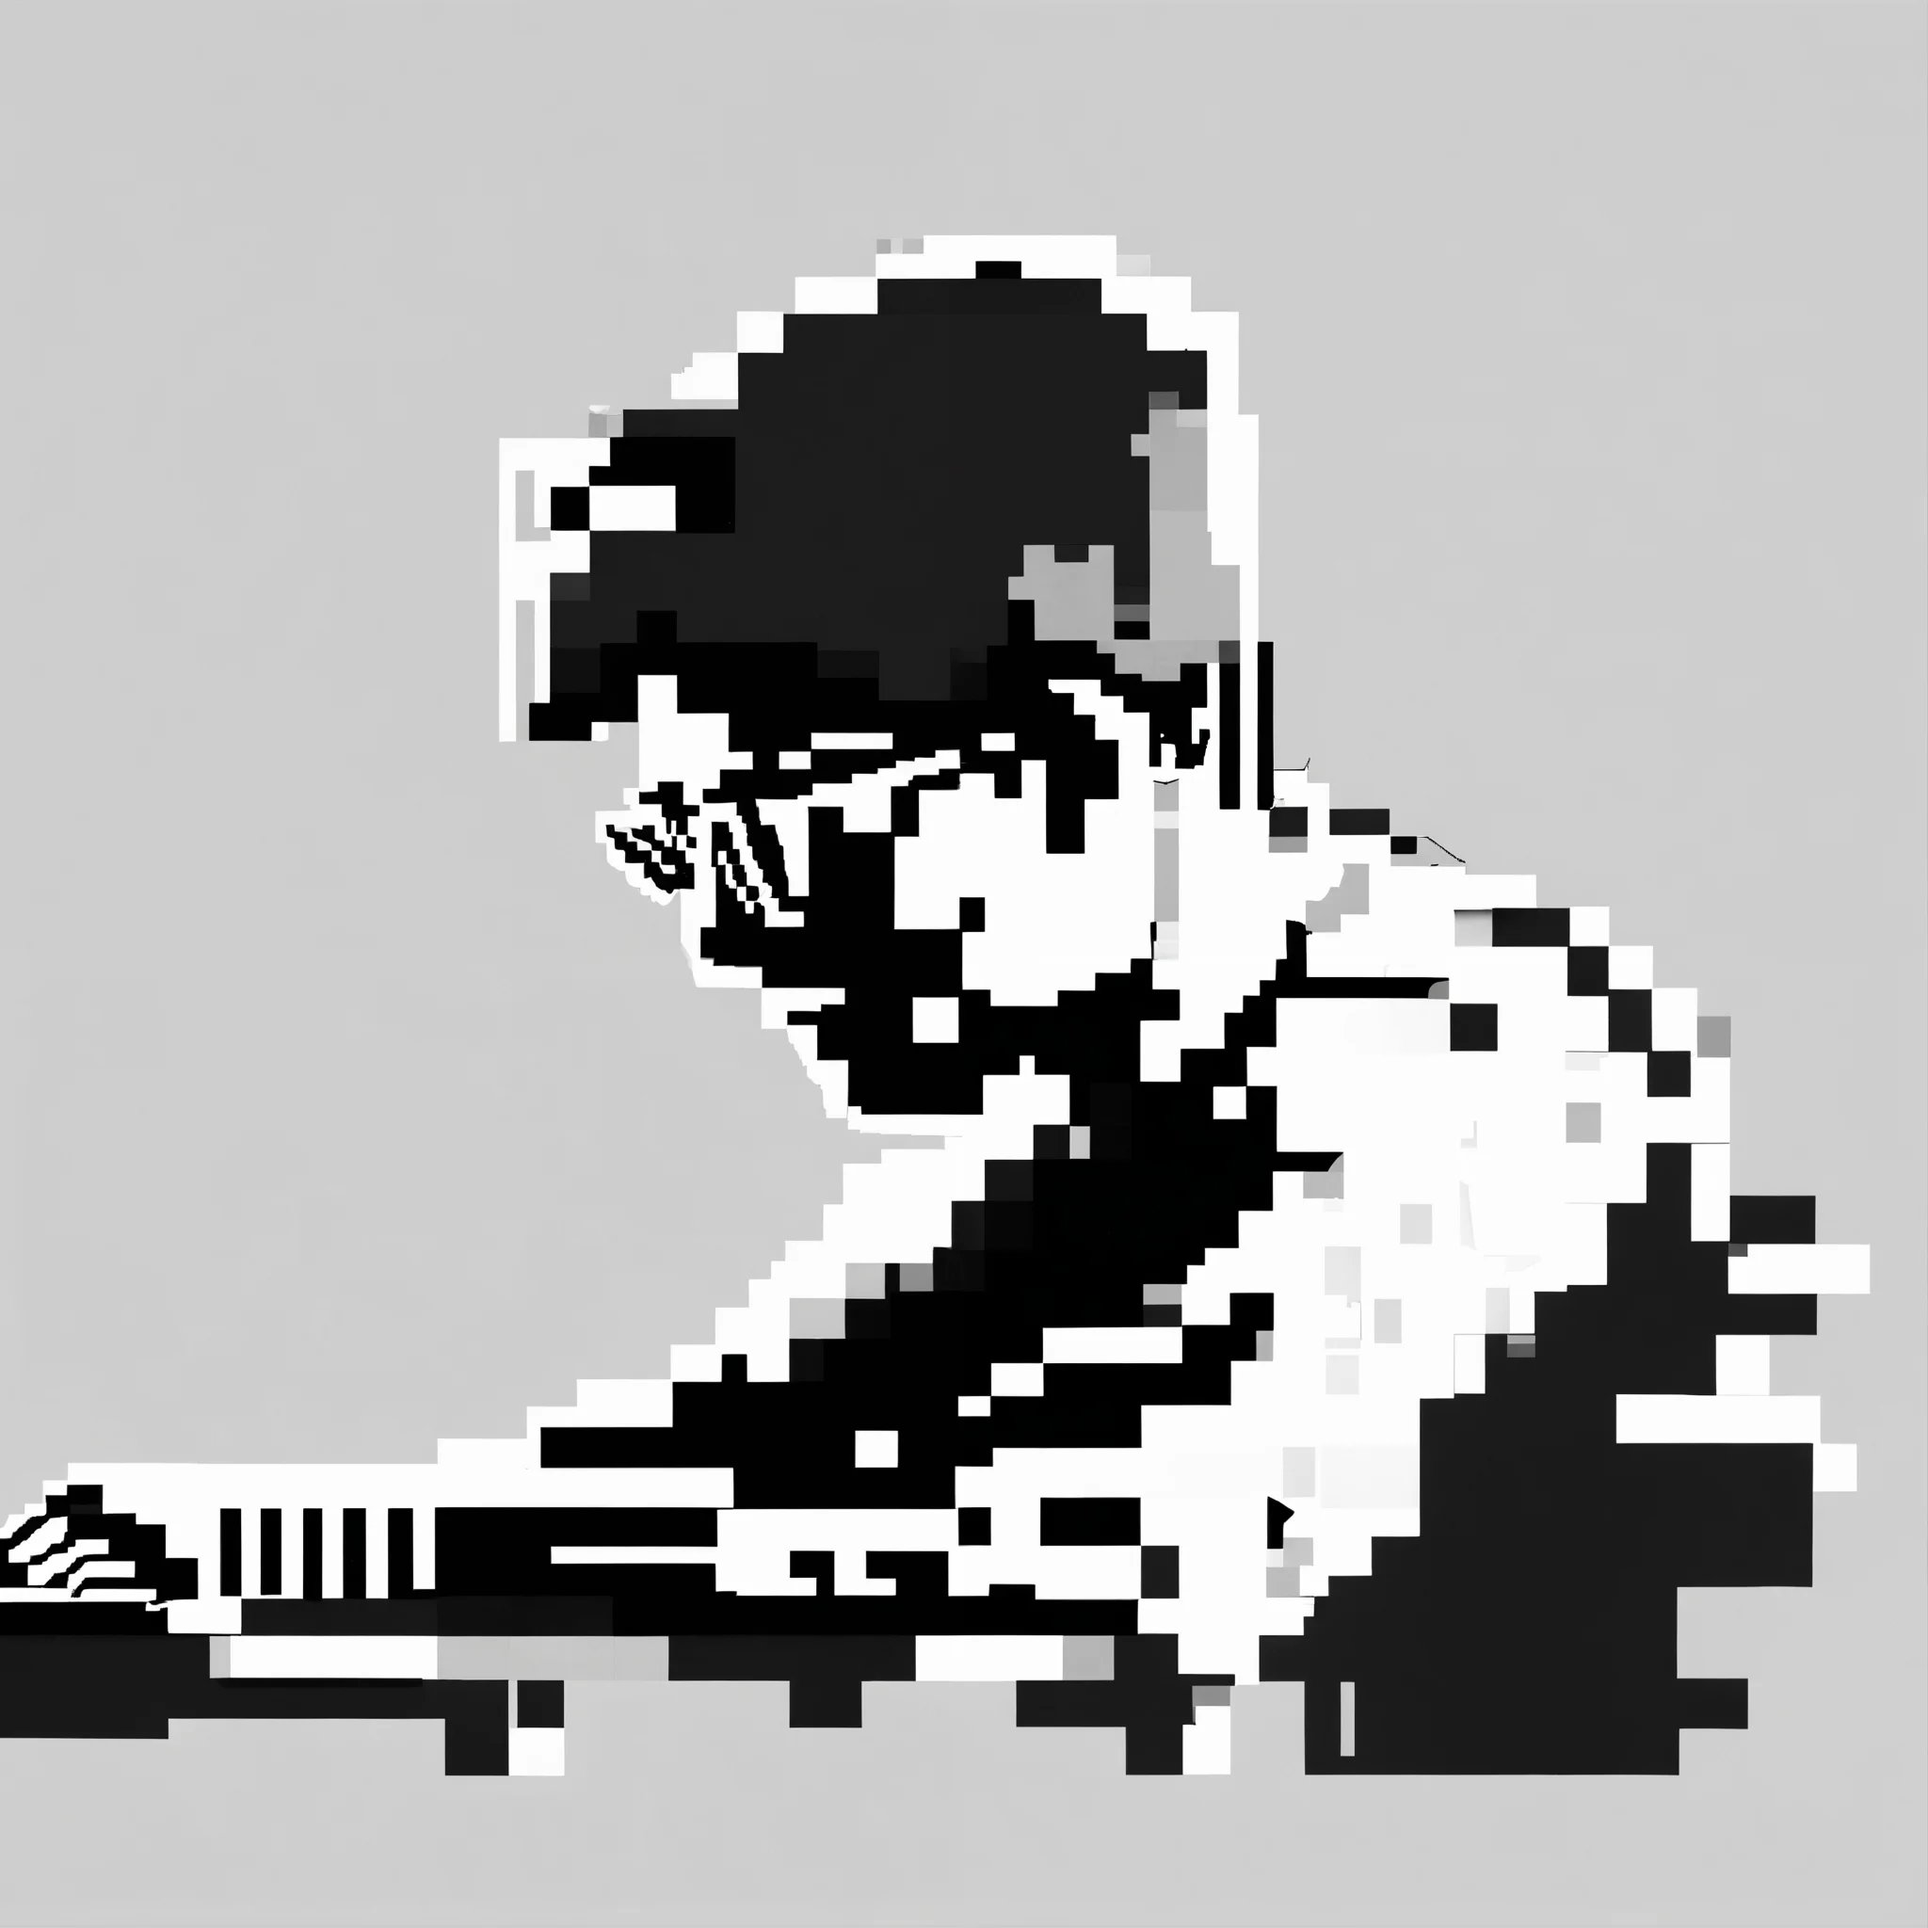
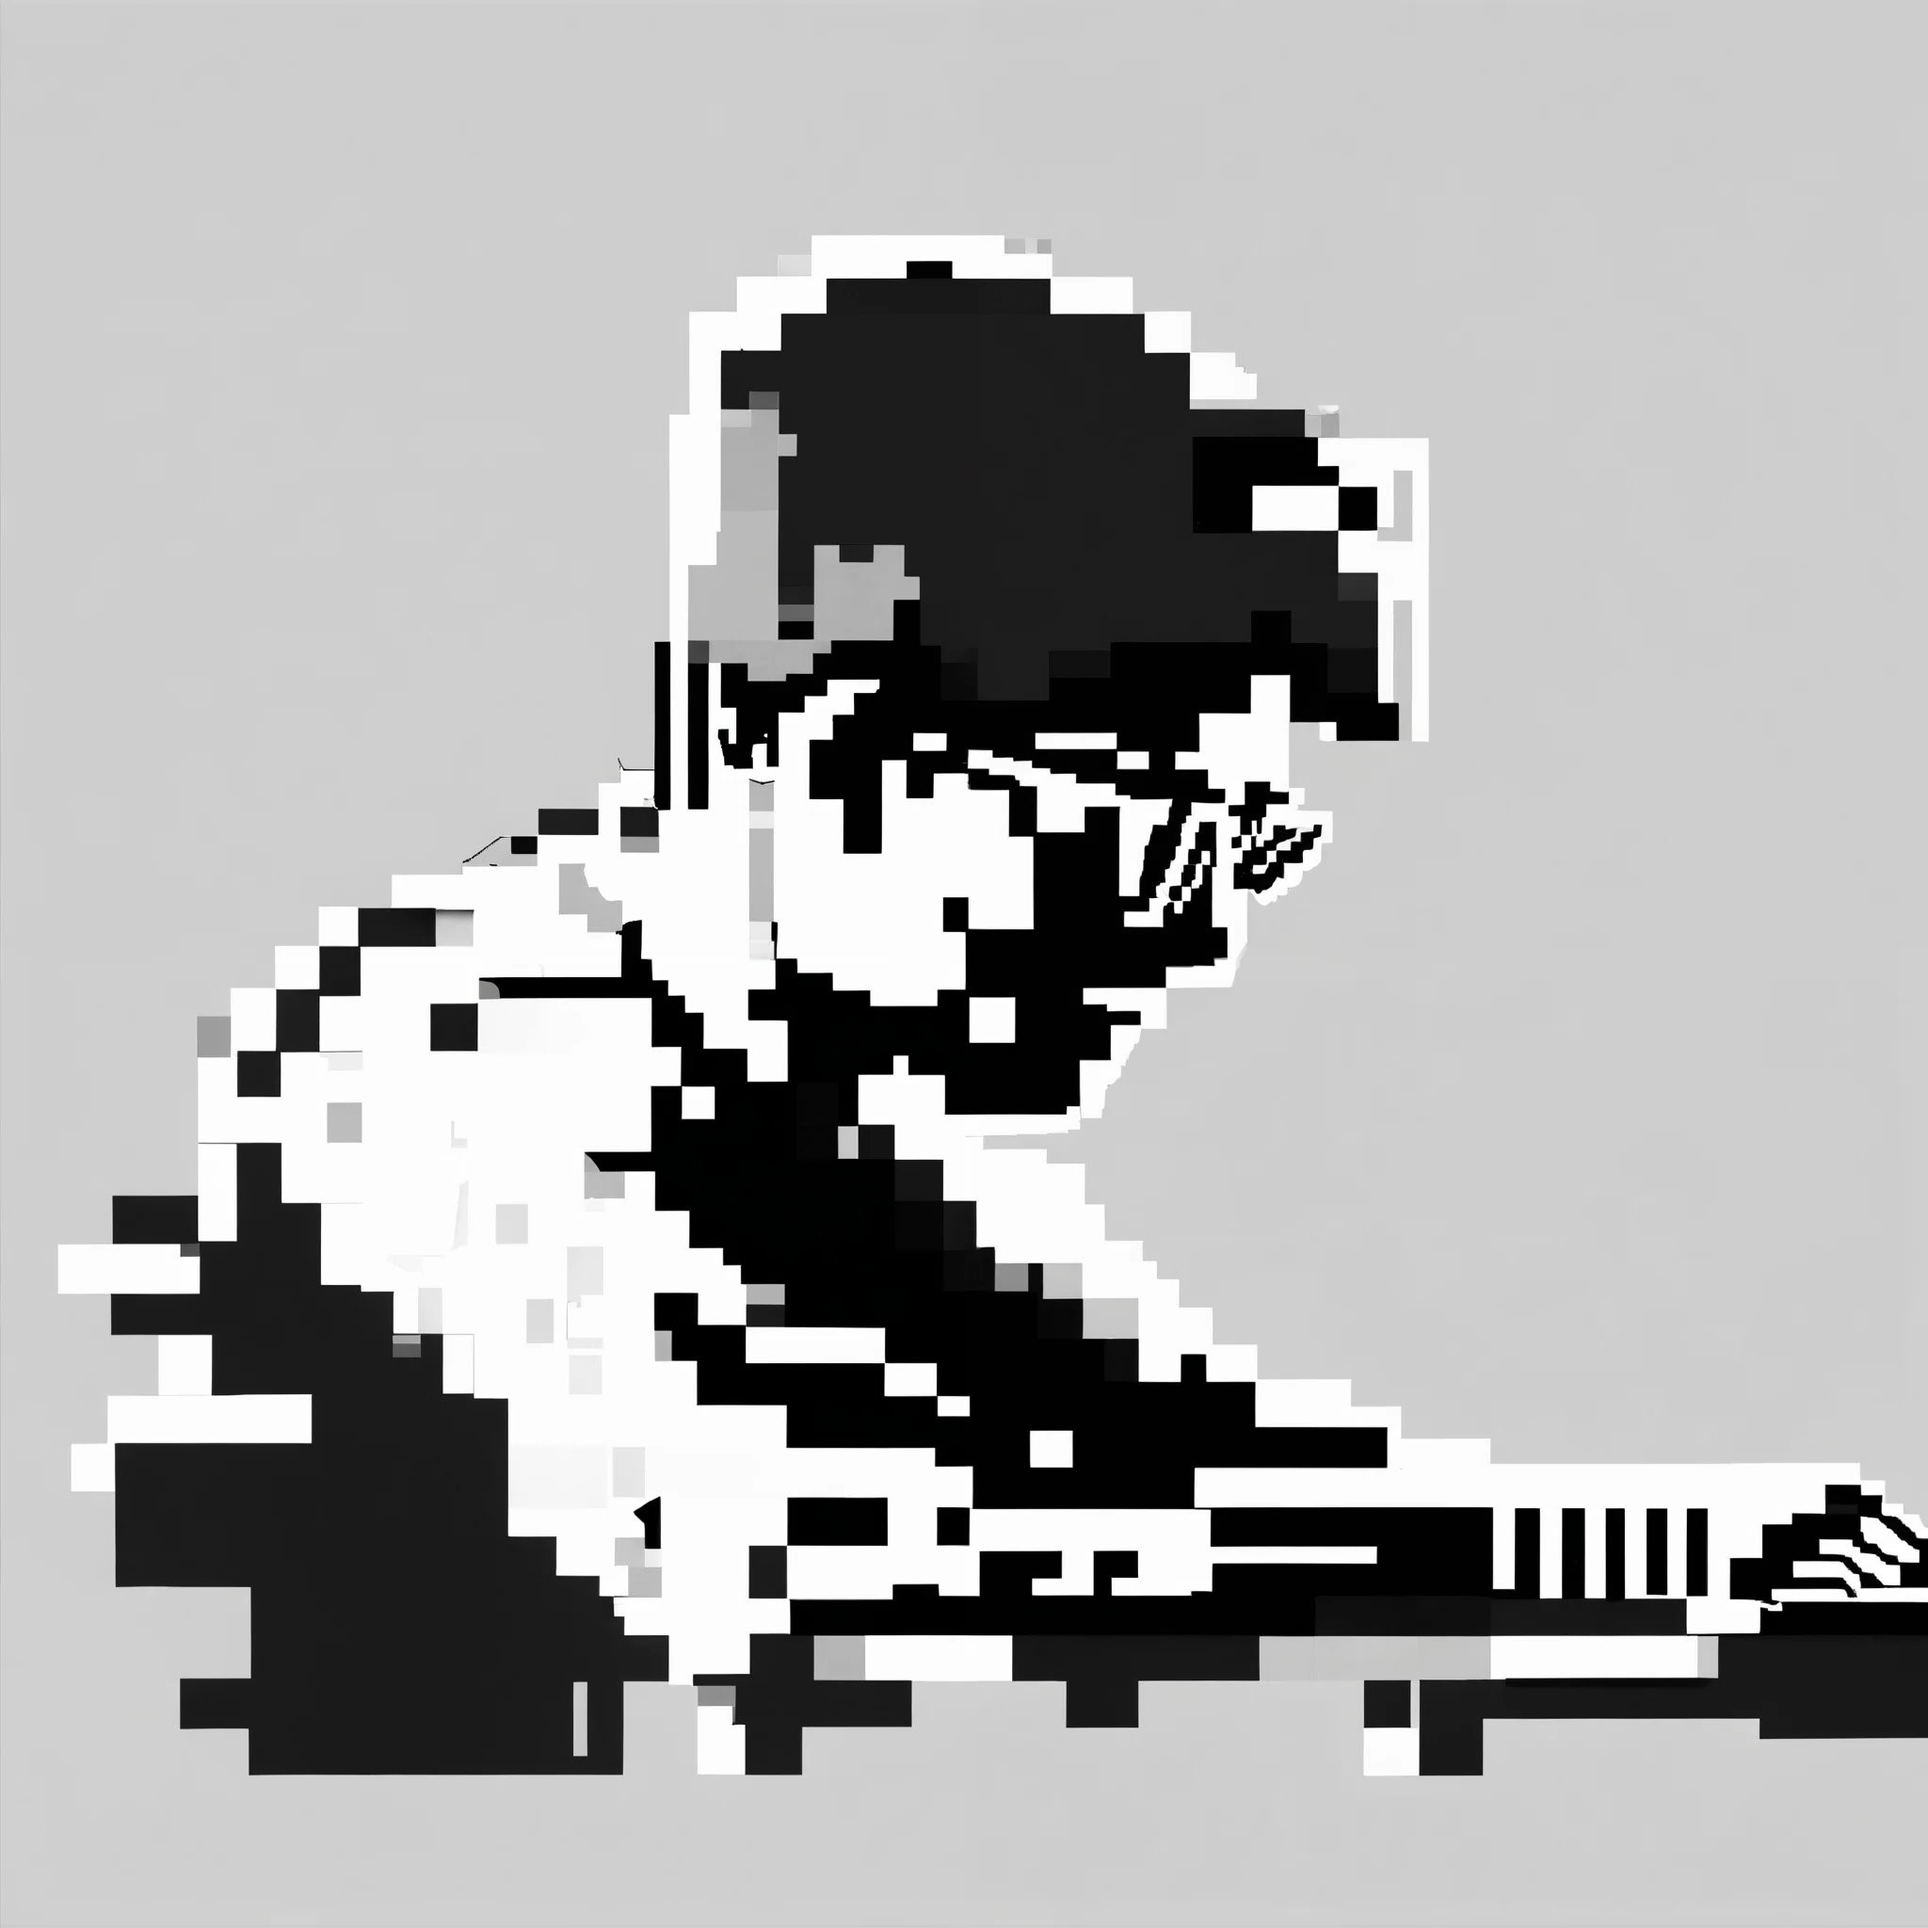
2

diff --git a/index.html b/index.html
@@ -48,7 +48,7 @@
     <!-- Navbar (sit on top) -->
     <div class="w3-top">
       <div class="w3-bar w3-fbgrey w3-card" id="myNavbar">
-        <a href="#home" class="w3-bar-item w3-button w3-wide">
+        <a href="#home" class="w3-bar-item w3-button w3-wide ">
           <img src="coding2.jpg" alt="Logo" width="25" />
         </a>
         <!-- Right-sided navbar links -->
@@ -177,7 +177,7 @@
       <div class="w3-row-padding w3-grayscale" style="margin-top: 64px">
         <div class="w3-col l3 m6 w3-margin-bottom">
           <div class="w3-card">
-            <img src="TRWS.JPG" alt="TRWS" style="width: 100%" />
+            <img src="TRWS2.JPG" alt="TRWS" style="width: 100%" />
             <div class="w3-container">
               <h3>Der Beste DJ Erlangens</h3>
               <p class="w3-opacity">trws music</p>
